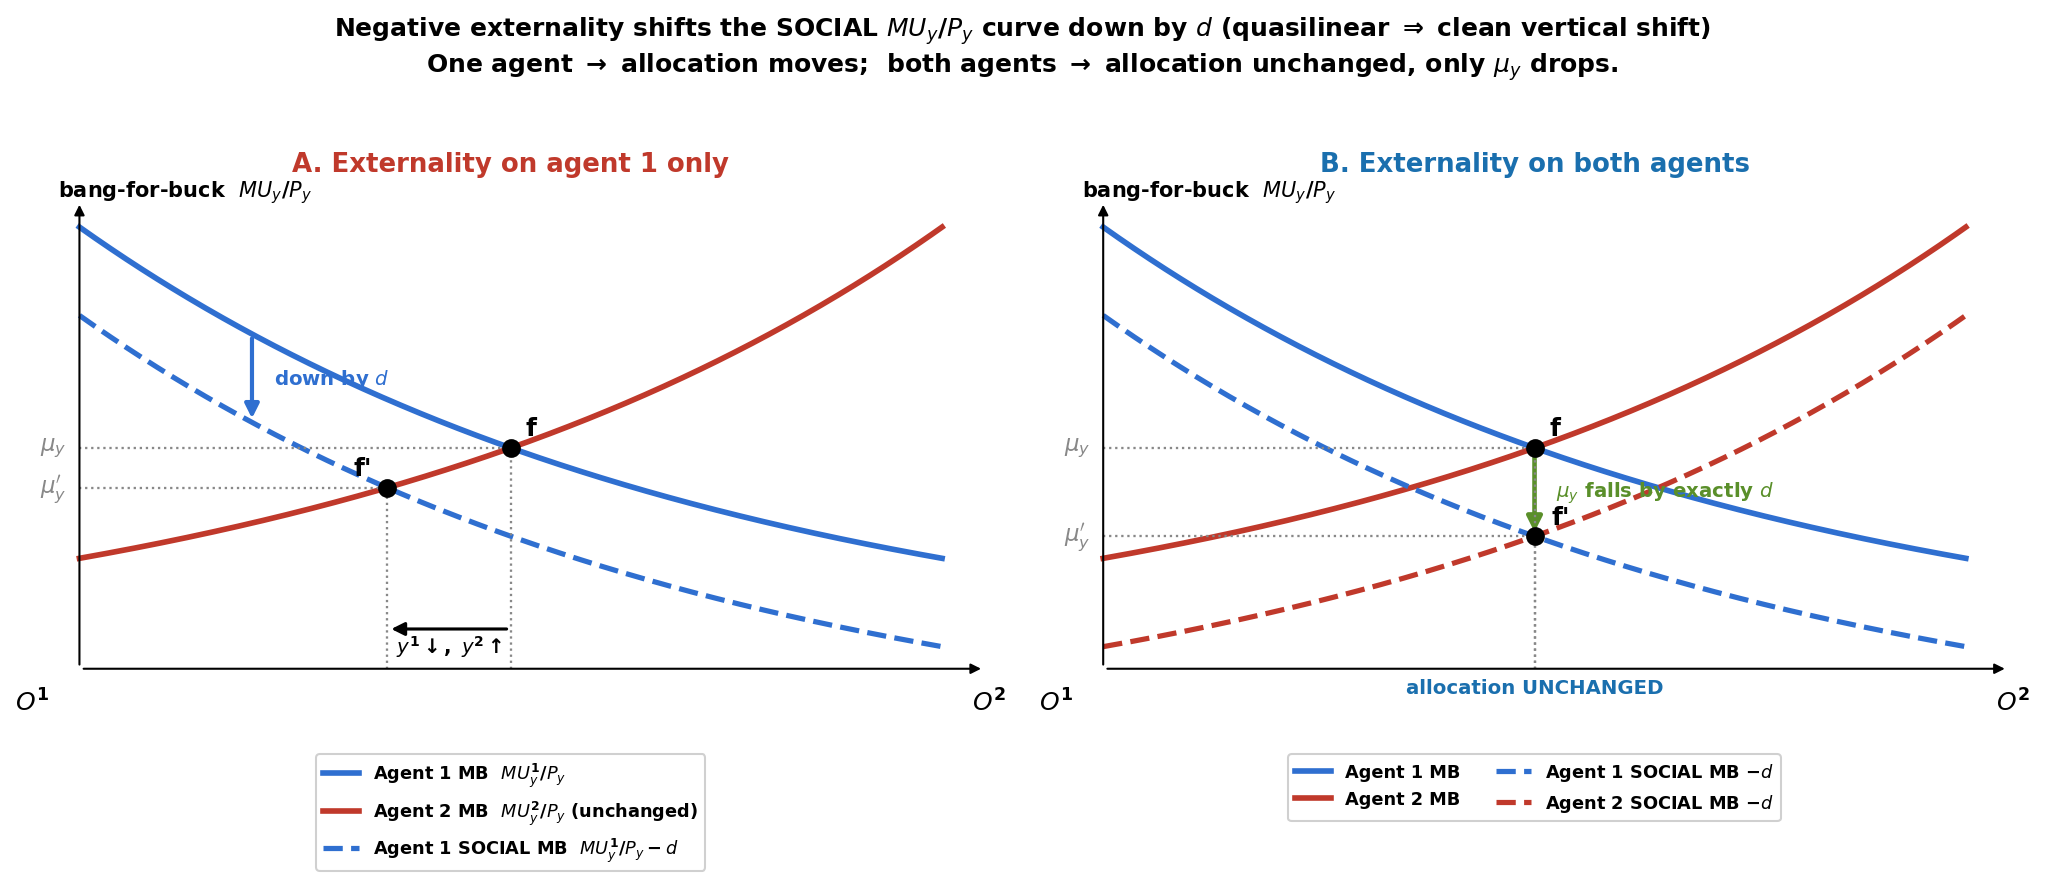
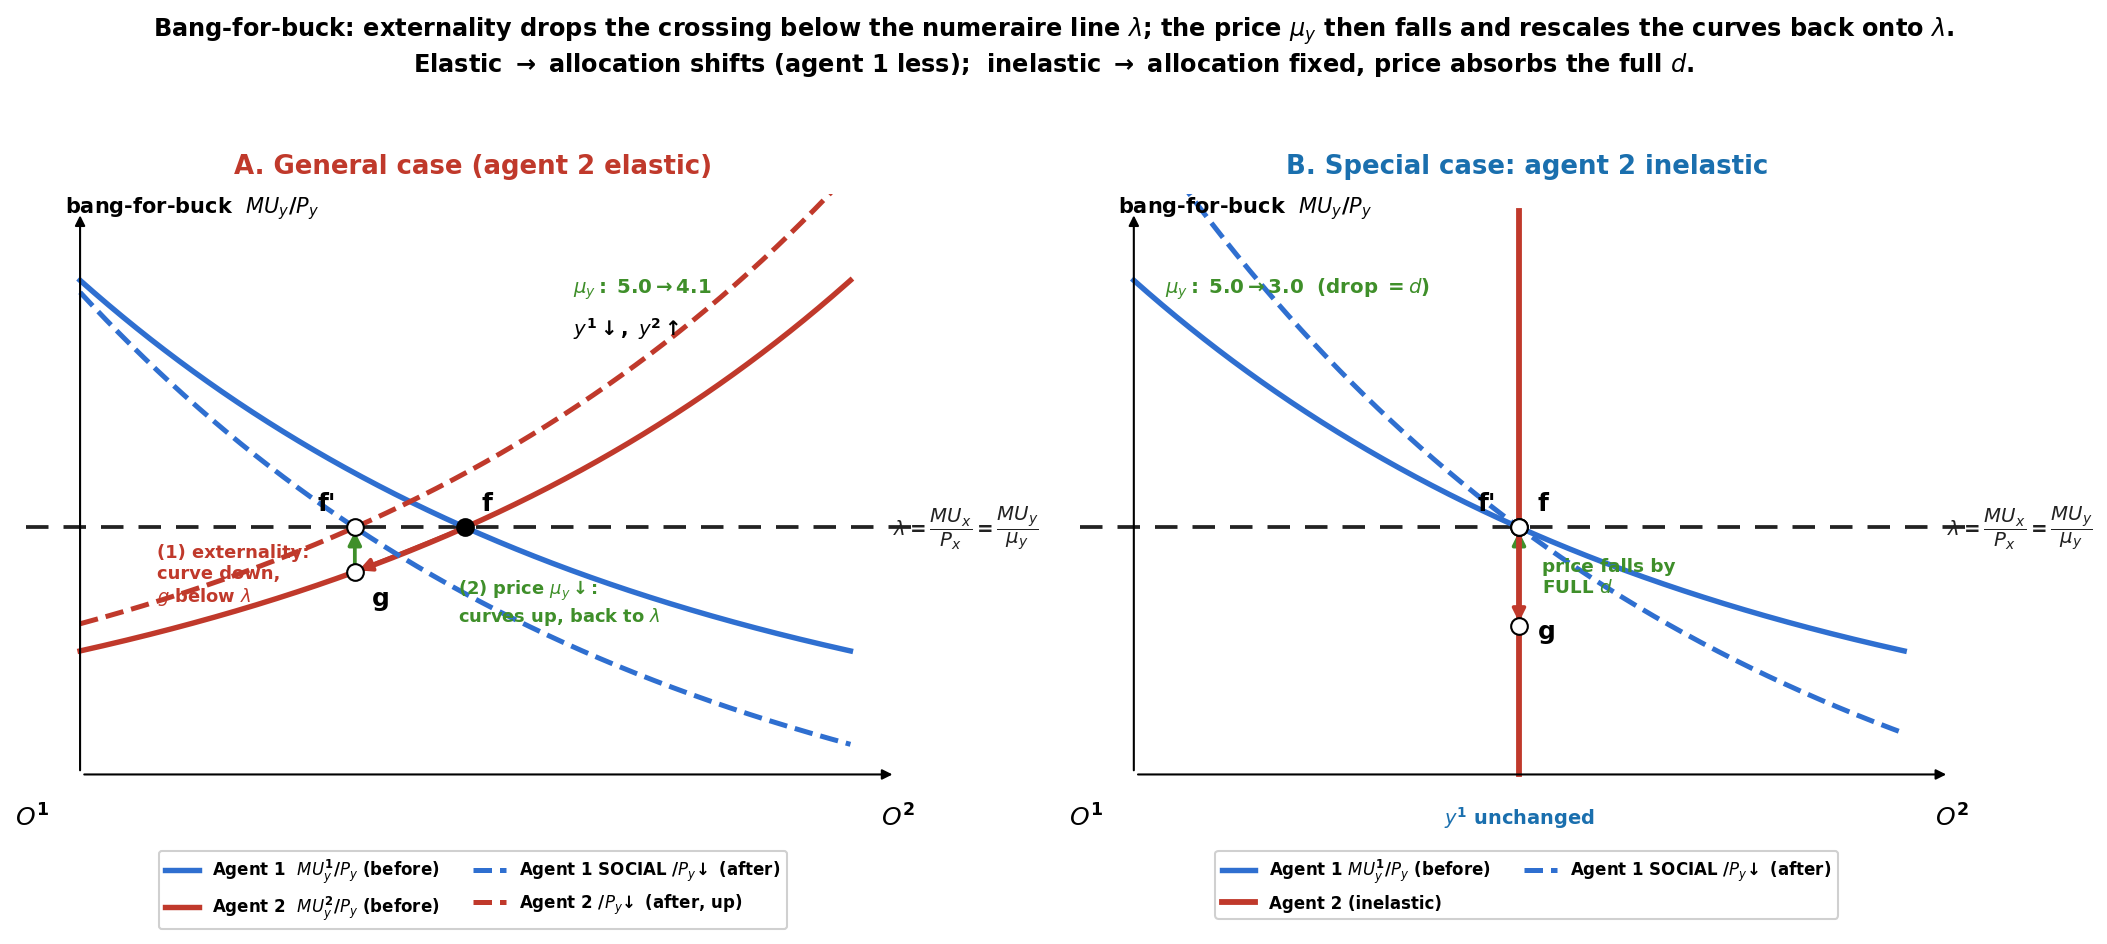
auto-deploy: mindnotes update 11:53:44

diff --git a/apps/mindnotes/index.html b/apps/mindnotes/index.html
@@ -5538,7 +5538,7 @@ const State = {
 
 const SUBJECTS = [
     { id: 'adv-math', name: 'Advanced Mathematics', icon: '\u2211', dataKey: 'mindnotes_advmath', seedFile: 'data.json', repoPath: 'apps/mindnotes/data.json' },
-    { id: 'adv-micro', name: 'Advanced Microeconometrics', icon: '\uD83D\uDCCA', dataKey: 'mindnotes_advmicro', seedFile: 'data_advmicro.json', seedVersion: 28, repoPath: 'apps/mindnotes/data_advmicro.json' },
+    { id: 'adv-micro', name: 'Advanced Microeconometrics', icon: '\uD83D\uDCCA', dataKey: 'mindnotes_advmicro', seedFile: 'data_advmicro.json', seedVersion: 29, repoPath: 'apps/mindnotes/data_advmicro.json' },
     { id: 'adv-macro', name: 'Advanced Macroeconomics', icon: '\uD83C\uDF10', dataKey: 'mindnotes_advmacro', seedFile: 'data_advmacro.json', seedVersion: 7, repoPath: 'apps/mindnotes/data_advmacro.json' },
     { id: 'time-series', name: 'Time Series Analysis', icon: '\uD83D\uDCC8', dataKey: 'mindnotes_timeseries', seedFile: 'data_timeseries.json', seedVersion: 6, repoPath: 'apps/mindnotes/data_timeseries.json' },
     { id: 'statistics', name: 'Statistics', icon: '\u03C3', dataKey: 'mindnotes_statistics', seedFile: 'data_statistics.json', repoPath: 'apps/mindnotes/data_statistics.json' },
